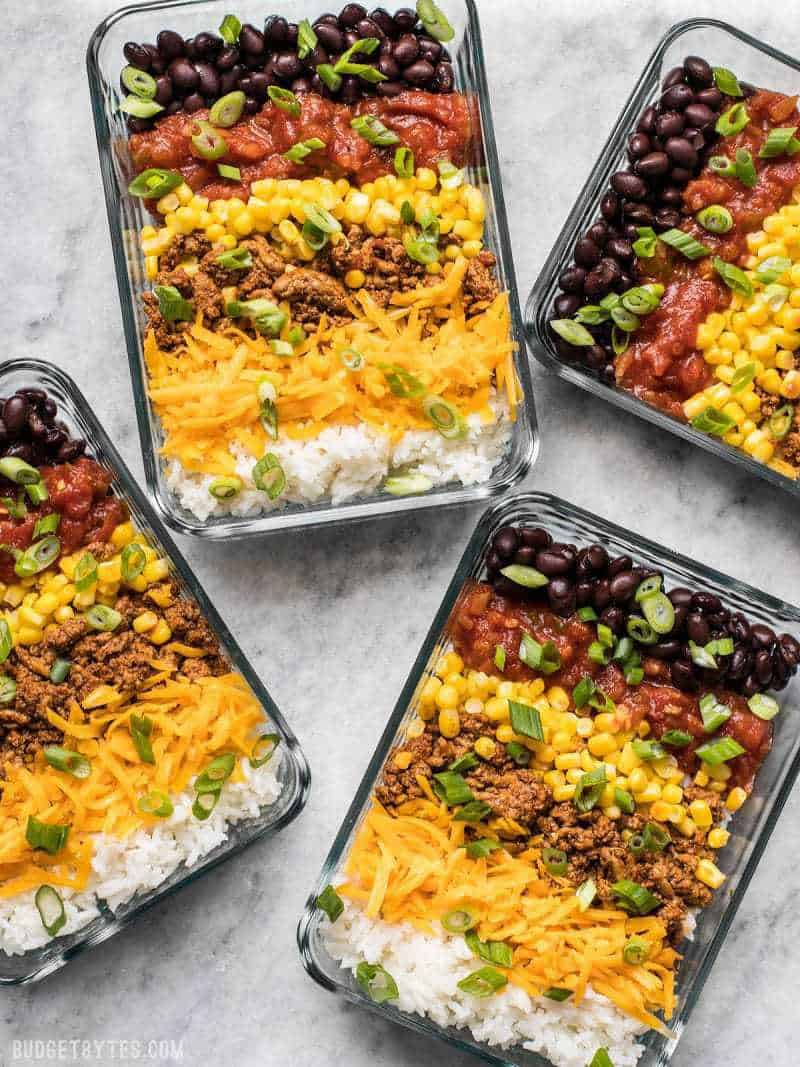
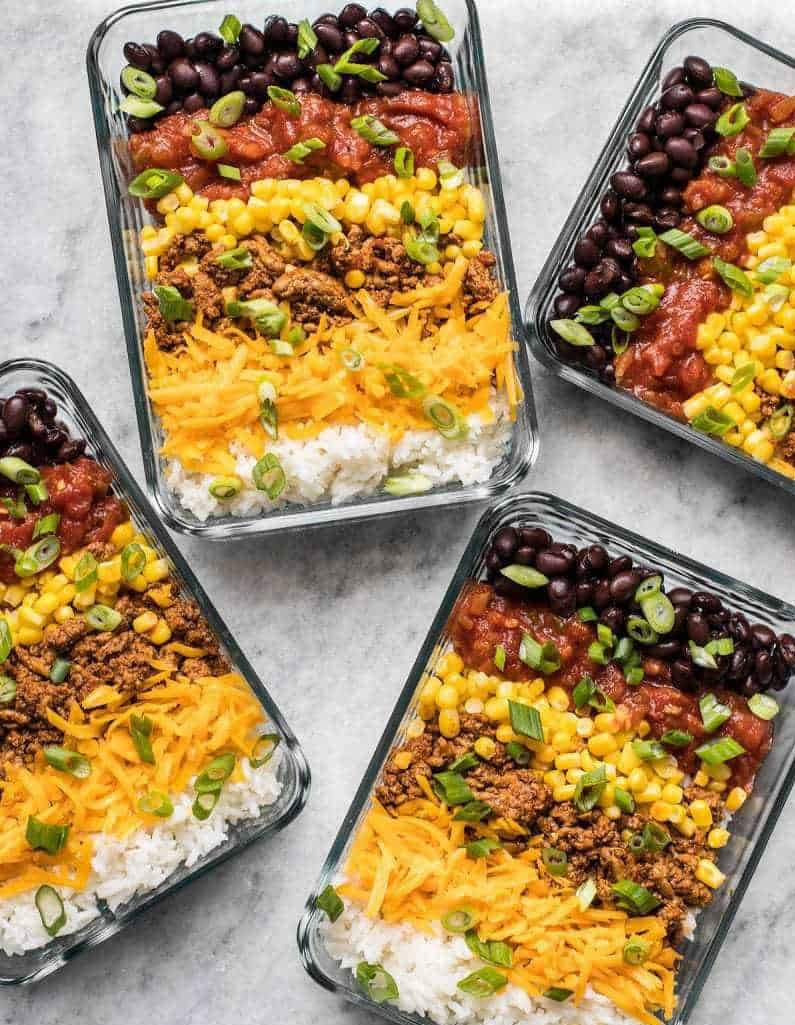
Add image, description, ingredients, and steps to beef kofta recipe
Similarly for jerk chicken recipe.

diff --git a/recipes/jerk-chicken-with-pineapple-black-bean-salsa.html b/recipes/jerk-chicken-with-pineapple-black-bean-salsa.html
@@ -9,6 +9,73 @@
 
     <body>
         <h1>Jerk Chicken with Pineapple Black Bean Salsa</h1>
+        <img src="../images/jerk-chicken.jpg" alt="A plate of jerk chicken with white rice, pineapples, and black beans" height="600">
+
+        <h2>Description</h2>
+        <p>
+            This Jerk Chicken with Pineapple Black Bean Salsa is incredibly simple, but still big on summery flavor. 
+            The spicy jerk seasoning perfectly compliments the sweet pineapple salsa, 
+            and the black beans add bulk and extra protein to the meal without adding a lot to the cost. 
+            And even better yet, you can serve this meal hot, or eat the leftovers cold for a nice refreshing summer lunch.
+        </p>
+
+        <h2>Ingredients (for 4 Servings)</h2>
+        <ul>
+            <li>4 cups cooked rice</li>
+            <li>2 cups pineapple tidbits</li>
+            <li>1 15oz. can black beans, well rinsed</li>
+            <li>1/3 cup finely diced red onion</li>
+            <li>1/2 cup coarsely chopped cilantro</li>
+            <li>1 lime</li>
+            <li>1 pinch crushed red pepper</li>
+            <li>1/4 tsp salt, or to taste</li>
+            <li>2 boneless, skinless chicken breasts</li>
+            <li>1 Tbsp jerk seasoning</li>
+            <li>1 Tbsp cooking oil</li>
+        </ul>
+
+        <h2>Steps</h2>
+        <ol>
+            <li>
+                Begin cooking your rice first. If you plan on packing this for meal prep, 
+                transfer the cooked rice to your meal prep containers and refrigerate them as you finish the rest of the recipe, 
+                so they can begin to cool down.
+            </li>
+            <li>
+                While the rice is cooking, prepare the pineapple black bean salsa. 
+                Coarsely chop the pineapple tidbits into smaller pieces, similar in size to the black beans. 
+                Place the chopped pineapple, rinsed black beans, diced red onion, and chopped cilantro in a large bowl.
+            </li>
+            <li>
+                Squeeze the juice of half the lime (about 1 Tbsp) over the ingredients in the bowl. 
+                Also add 1/4 tsp salt and a pinch of red pepper flakes (optional). 
+                Stir the ingredients together, give it a taste, and add more salt or lime juice if needed. 
+                Any unused lime will be cut into wedges for squeezing over the chicken before serving.
+            </li>
+            <li>
+                Next, prepare the jerk chicken. Pat the chicken breasts dry with a paper towel. 
+                Place a piece of plastic wrap over the chicken to eliminate splatter, 
+                then gently pound the chicken breasts into an even thickness using either a rolling pin or a mallet. 
+                Sprinkle the jerk seasoning over both sides of the chicken and use your hands to rub it into the surface, 
+                making sure they're completely coated.
+            </li>
+            <li>
+                Add the cooking oil to a large skillet, or preheat your grill. 
+                Once hot, add the chicken and cook until well browned on both sides, 
+                and the chicken is completely cooked through (about 7 minutes each side). 
+                It should no longer be pink in the center and the juices should run clear. 
+                For extra safety, use an instant read meat thermometer and cook until the internal temperature reaches 165ºF.
+            </li>
+            <li>
+                Transfer the cooked chicken to a clean cutting board and let it rest for five minutes. 
+                After five minutes, slice the chicken into 1/2-wide strips.
+            </li>
+            <li>
+                To serve, place about a cup of cooked rice on a plate, or in your meal prep container, 
+                top with about a cup of the pineapple black bean salsa, and a few strips of the jerk chicken. 
+                Slice the remaining lime into wedges and squeeze fresh juice over the chicken just before eating.
+            </li>
+        </ol>
     </body>
 
 </html>

diff --git a/recipes/beef-kofta-with-roasted-vegetables.html b/recipes/beef-kofta-with-roasted-vegetables.html
@@ -9,6 +9,79 @@
 
     <body>
         <h1>Beef Kofta with Roasted Vegetables</h1>
+        <img src="../images/beef-kofta.jpg" alt="A plate of beef kofta with white rice and roasted vegetables" height="600">
+
+        <h2>Description</h2>
+        <p>
+            Browned beef full of warm spices, a medley of roasted vegetables with caramelized edges, 
+            and a bed of warm rice makes a fabulously well rounded meal that is a perfect candidate for meal prepping. 
+            These Beef Kofta Meatballs with Roasted Vegetables are my new easy-peasy healthy prep for the week!
+        </p>
+
+        <h2>Ingredients (for 4 Servings)</h2>
+        <ul>
+            <li>1 zucchini</li>
+            <li>1 yellow squash</li>
+            <li>1 pint grape tomatoes</li>
+            <li>3/4 red onion</li>
+            <li>2 Tbsp olive oil</li>
+            <li>1/4 tsp garlic powder</li>
+            <li>1/2 tsp dried oregano</li>
+            <li>salt & pepper</li>
+            <li>1 lb. ground beef</li>
+            <li>2 cloves garlic, minced</li>
+            <li>1/4 red onion, minced</li>
+            <li>2 Tbsp parsley, chopped</li>
+            <li>1/2 tsp dried oregano</li>
+            <li>1/4 tsp cumin</li>
+            <li>1/8 tsp cinnamon</li>
+            <li>1/8 tsp cloves</li>
+            <li>3/4 tsp salt</li>
+            <li>2 Tbsp cooking oil</li>
+            <li>4 cups cooked rice</li>
+            <li>2 Tbsp parsley, chopped</li>
+        </ul>
+
+        <h2>Steps</h2>
+        <ol>
+            <li>
+                Preheat the oven to 425ºF. Dice the zucchini and yellow squash. 
+                Reserve 1/4 of the red onion for the meatballs and cut the remaining 3/4 into 1-inch slices. 
+                Place the chopped zucchini, squash, onion, and grape tomatoes on a large baking sheet.
+            </li>
+            <li>
+                Drizzle the olive oil over the vegetables, then add the garlic powder, oregano, salt and pepper. 
+                Use your hands to toss the vegetables in the oil and spices until they are evenly coated. 
+                Spread the vegetables out evenly over the baking sheet, then transfer them to the oven.
+            </li>
+            <li>
+                Roast the vegetables in the oven for 40 minutes, or until they are wilted and browned on the edges, 
+                stirring once half way through.
+            </li>
+            <li>
+                While the vegetables are roasting, prepare the meatballs. Mince the remaining 1/4 red onion. 
+                Add the ground beef, red onion, minced garlic, chopped parsley, oregano, cumin, cloves, cinnamon, 
+                and salt to a bowl. Mix the ingredients together until they are well combined.
+            </li>
+            <li>
+                Shape the meat mixture into 16 ping pong sized meatballs.
+                This is a good time to begin cooking your rice so that it's finished at the same time as the meatballs and vegetables.
+            </li>
+            <li>
+                Heat a large non-stick or cast iron skillet over medium heat. 
+                Once hot, 1 Tbsp cooking oil and swirl to coat the surface of the skillet. 
+                Add half of the meatballs and cook on each side until well browned (about 7 minutes total). 
+                Be careful as you turn the meatballs, as they can be quite delicate. 
+                If it's easier, you can flatten them into mini patty shapes. 
+                Transfer the cooked meatballs to a clean plate, add more oil to the skillet, 
+                and cook the second batch in the same manner.
+            </li>
+            <li>
+                Once the meatballs are cooked and the vegetables have finished roasting, it's time to assemble the meal. 
+                Place about 1 cup cooked rice on each plate or container, add 1/4 of the roasted vegetables, 
+                then top with four of the beef kofta meatballs. Top with a little more chopped parsley and enjoy!
+            </li>
+        </ol>
     </body>
 
 </html>

diff --git a/index.html b/index.html
@@ -8,8 +8,15 @@
     </head>
 
     <body>
-        <h1>Odin Recipes</h1>
-        <a href="recipes/burrito-bowl.html">Burrito Bowl</a>
+        <h1>Easy Meal Prep Recipes</h1>
+        <ul>
+            <li><a href="recipes/burrito-bowl.html">Easiest Burrito Bowl</a></li>
+            <li><a href="recipes/beef-kofta-with-roasted-vegetables.html">Beef Kofta with Roasted Vegetables</a></li>
+            <li><a href="recipes/jerk-chicken-with-pineapple-black-bean-salsa.html">Jerk Chicken with Pineapple Black Bean Salsa</a></li>
+        </ul>
+        <p>
+            BIG thank you to <a href="https://www.budgetbytes.com/">BudgetBytes</a> for the wonderful recipes!
+        </p>
     </body>
 
 </html>

diff --git a/recipes/burrito-bowl.html b/recipes/burrito-bowl.html
@@ -4,12 +4,12 @@
 
     <head>
         <meta charset="UTF-8">
-        <title>Burrito Bowl Recipe</title>
+        <title>Easiest Burrito Bowl Recipe</title>
     </head>
 
     <body>
-        <h1>Burrito Bowl</h1>
-        <img src="../images/burrito-bowl.jpg" alt="Four Burrito Bowls in separate glass containers">
+        <h1>Easiest Burrito Bowl</h1>
+        <img src="../images/burrito-bowl.jpg" alt="Four Burrito Bowls in separate glass containers" height="600">
 
         <h2>Description</h2>
         <p>

diff --git a/README.md b/README.md
@@ -1,1 +1,3 @@
 # odin-recipes
+
+A simple website that describes three easy meal prep recipes.
